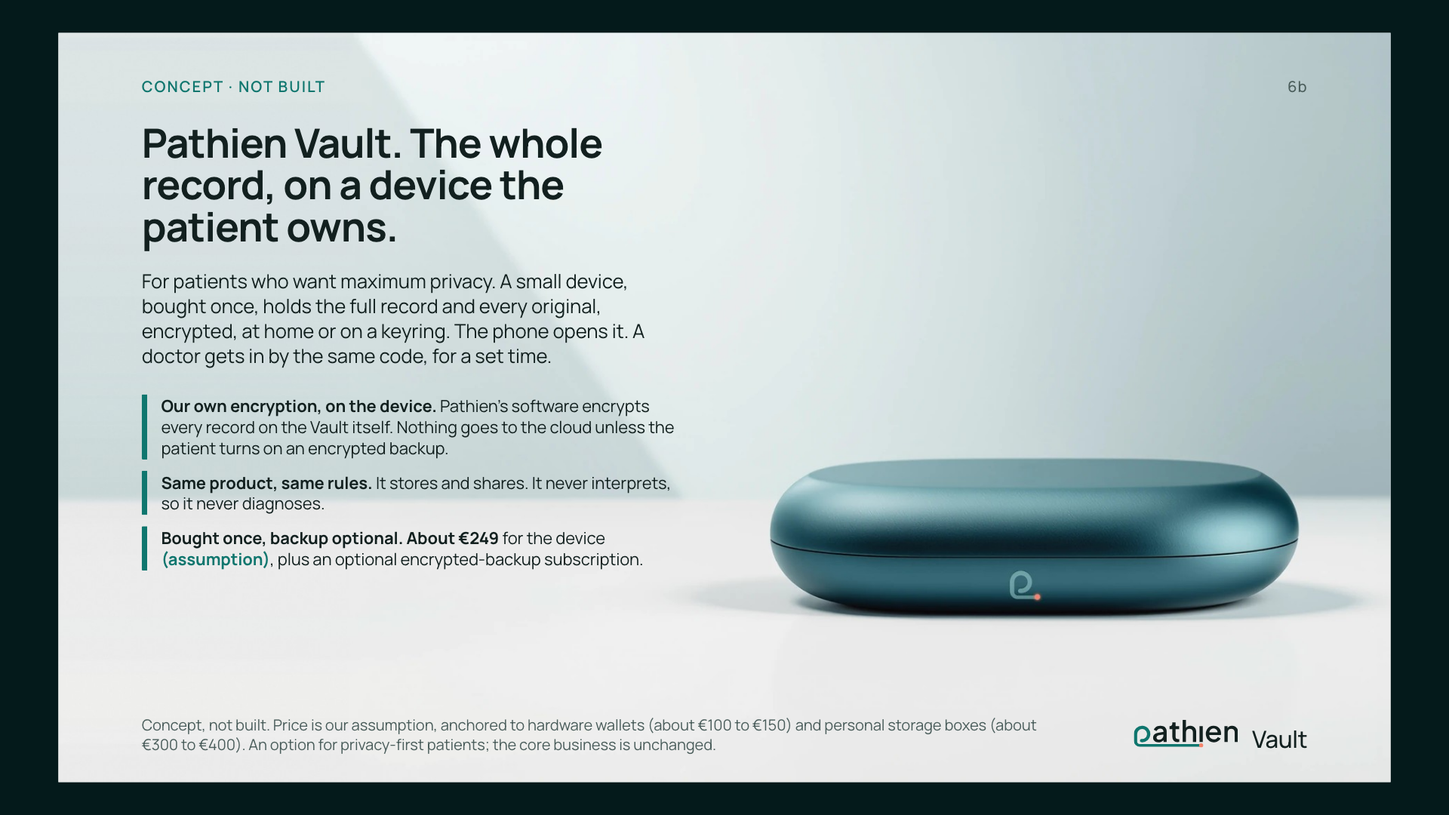
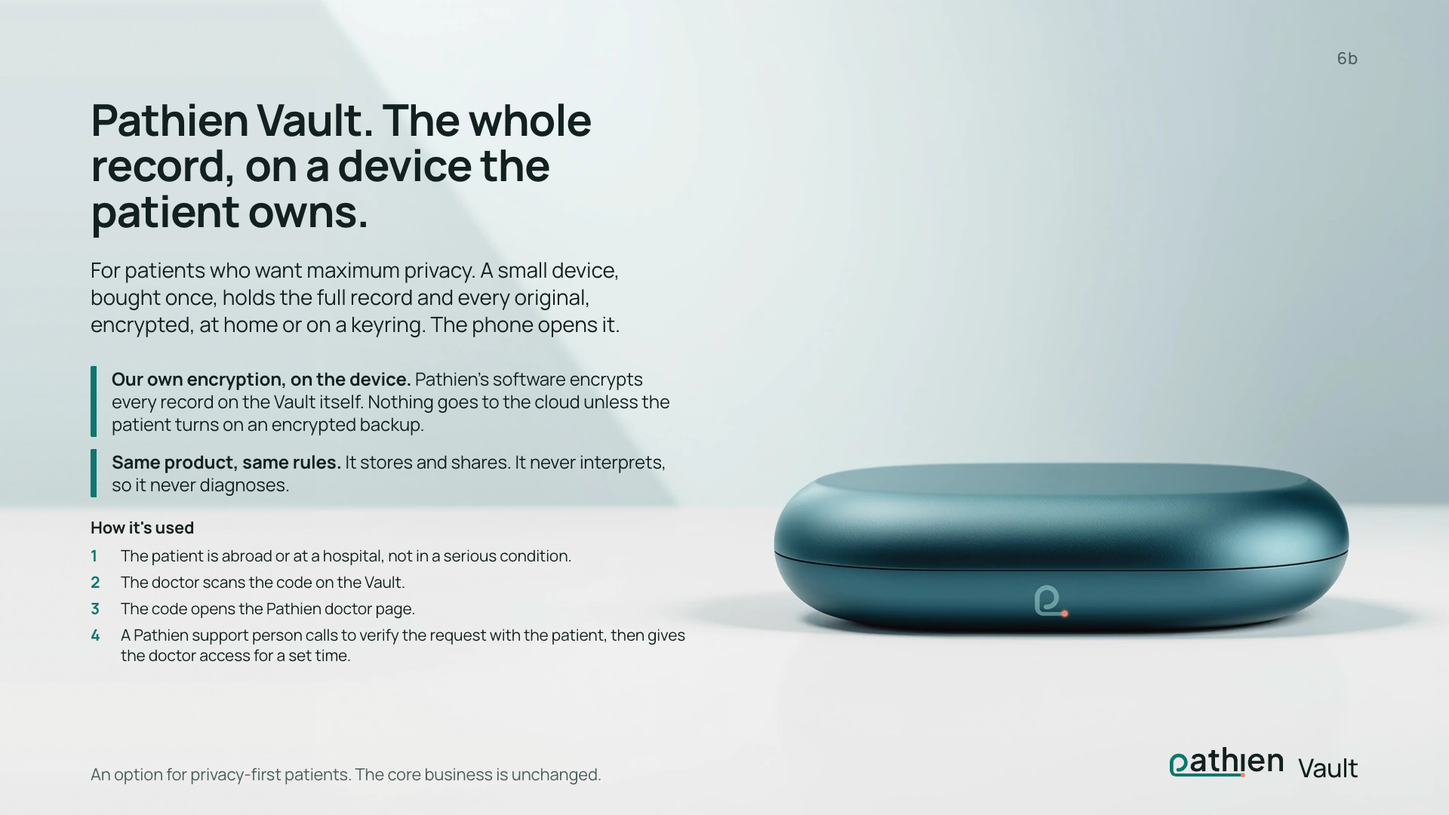
feat(deck): slide 6b drops concept label and price, adds How it's used steps
Hero template gains optional stepsTitle and steps. deck-content.md to v3.5.

Refs MIN-4503

Changed region(s): [[0.0, 0.0, 1.0, 1.0], [0.0938, 0.8861, 0.7188, 0.9167]]

diff --git a/landing/src/deck/slides.ts b/landing/src/deck/slides.ts
@@ -25,7 +25,7 @@ const N: Record<string, string[]> = {
     "We designed privacy in from the first line. The key lives on the patient's device. A doctor gets in only face to face, only with a yes, and only for a set time. Every access goes into a log the patient can read and nobody can edit; the log holds fingerprints, never health data. Those are product rules, not settings."
   ],
   "6b": [
-    "Some people will not want their record on anyone's server, ours included. For them we are designing Pathien Vault: a small device they buy once, holding the whole record at home. The doctor still gets in by the code, for a set time. Pathien's own encryption runs on the device, so nothing sits in the cloud. It is a concept, not built yet, and an option, not the business."
+    "Pathien Vault keeps the whole record on a device the patient owns, under our own encryption, not in the cloud. Here is how it's used. The patient is abroad, or at a hospital, and not in a serious condition. The doctor scans the code on the Vault, and it opens our doctor page. One of our support team calls to verify the request with the patient, then gives the doctor access for a set time."
   ],
   "7": [
     "The founder's question was simple: somewhere in the world, someone has Maria's pattern. If she says yes, her doctor can see that similar unnamed cases exist and ask to talk to the doctor treating one of them. Not to sell data. To shorten the years patients spend going from doctor to doctor. Opt-in only, and she can withdraw at any time."
@@ -180,17 +180,23 @@ export const slides: Slide[] = [
     side: { kind: 'phone', caption: "Key on the patient's phone", tag: 'Mock-up' },
   },
   {
-    id: '6b', counter: '6b', template: 'hero', theme: 'air', kicker: 'Concept · not built', notes: N['6b'],
+    id: '6b', counter: '6b', template: 'hero', theme: 'air', notes: N['6b'],
     headline: 'Pathien Vault. The whole record, on a device the patient owns.',
-    body: 'For patients who want maximum privacy. A small device, bought once, holds the full record and every original, encrypted, at home or on a keyring. The phone opens it. A doctor gets in by the same code, for a set time.',
+    body: 'For patients who want maximum privacy. A small device, bought once, holds the full record and every original, encrypted, at home or on a keyring. The phone opens it.',
     points: [
       '**Our own encryption, on the device.** Pathien\'s software encrypts every record on the Vault itself. Nothing goes to the cloud unless the patient turns on an encrypted backup.',
       '**Same product, same rules.** It stores and shares. It never interprets, so it never diagnoses.',
-      '**Bought once, backup optional.** **About €249** for the device [[(assumption)]], plus an optional encrypted-backup subscription.',
+    ],
+    stepsTitle: "How it's used",
+    steps: [
+      'The patient is abroad or at a hospital, not in a serious condition.',
+      'The doctor scans the code on the Vault.',
+      'The code opens the Pathien doctor page.',
+      'A Pathien support person calls to verify the request with the patient, then gives the doctor access for a set time.',
     ],
     image: { src: '/deck/vault-hero.jpg', alt: 'A slim teal-night aluminium device, a rounded pebble with a tone-on-tone Pathien mark and one small coral light, on a pale surface' },
     lockupSuffix: 'Vault',
-    footer: 'Concept, not built. Price is our assumption, anchored to hardware wallets (about €100 to €150) and personal storage boxes (about €300 to €400). An option for privacy-first patients; the core business is unchanged.',
+    footer: 'An option for privacy-first patients. The core business is unchanged.',
   },
   {
     id: '7', template: 'statement', theme: 'air', no: '07', kicker: 'Possible matches', notes: N['7'],

diff --git a/landing/src/deck/deck.css b/landing/src/deck/deck.css
@@ -317,6 +317,11 @@ strong{font-weight:700}
 .hero-points{list-style:none;margin:38px 0 0;padding:0}
 .hero-points li{border-left:8px solid var(--teal);padding:2px 0 2px 20px;margin-bottom:16px;font-size:24px;line-height:30px;color:var(--ink);border-radius:2px}
 .hero-points strong{color:var(--ink);font-weight:700}
+.hero-steps{margin-top:26px}
+.hero-steps h3{margin:0 0 10px;font-size:22px;line-height:28px;font-weight:700;color:var(--ink)}
+.hero-steps ol{list-style:none;margin:0;padding:0;counter-reset:st}
+.hero-steps li{counter-increment:st;position:relative;padding-left:40px;margin-bottom:8px;font-size:21px;line-height:27px;color:var(--ink)}
+.hero-steps li::before{content:counter(st);position:absolute;left:0;top:0;font-weight:700;color:var(--teal)}
 .hero-flag{color:var(--teal);font-weight:700}
 .hero-tag{position:absolute;left:1303px;top:900px}
 .hero-lock{position:absolute;right:120px;bottom:42px;display:flex;align-items:baseline;gap:20px}

diff --git a/landing/src/deck/templates/Hero.tsx b/landing/src/deck/templates/Hero.tsx
@@ -15,6 +15,12 @@ export function Hero({ s }: { s: HeroSlide }) {
         <ul className="hero-points">
           {s.points.map((p, i) => <li key={i}>{withAccent(p)}</li>)}
         </ul>
+        {s.steps && (
+          <div className="hero-steps">
+            {s.stepsTitle && <h3>{s.stepsTitle}</h3>}
+            <ol>{s.steps.map((t, i) => <li key={i}>{typo(t)}</li>)}</ol>
+          </div>
+        )}
       </div>
       {s.tag && <span className="demo-tag hero-tag">{s.tag}</span>}
       <div className="hero-lock">

diff --git a/landing/src/deck/types.ts b/landing/src/deck/types.ts
@@ -36,6 +36,9 @@ export interface HeroSlide extends SlideBase {
   body: string;
   /** Text supports **bold** and [[accent]] (teal bold, e.g. "(assumption)"). */
   points: string[];
+  /** Optional "how it's used" list: a small heading and numbered steps (numbers in teal). */
+  stepsTitle?: string;
+  steps?: string[];
   image: { src: string; alt: string };
   /** Optional. Placed on the image, same size as the demo tags. Without it the slide must say concept or mock-up elsewhere (kicker, footer). */
   tag?: HeroTag;

diff --git a/docs/deck/deck-content.md b/docs/deck/deck-content.md
@@ -3,11 +3,11 @@
 | | |
 |---|---|
 | **Owner** | Anna Lytica (Marketing), MIN-4429. Deck story: CEO (MIN-4425). Design: Pix (MIN-4428), next. |
-| **Version** | **v3.4, 14 Nov 2026** (MIN-4462: every insurer mention removed from slides 6, 6b, 10, 11, 13 and both scripts; founder: "remove the never insurers -> not sure about this", then "Drop every insurer mention"; the internal data rule is unchanged). v3.3, 14 Nov 2026 (MIN-4503: slide 6b, the "Concept render" tag removed and the encryption point added; founder: "remove the concept render -> and mention that this device has our own encrypted software for the data so they are not in the cloud"; the eyebrow "Concept · not built" stays). v3.2, 14 Nov 2026 (MIN-4503: new slide 6b, Pathien Vault, a concept device for patients who want maximum privacy; founder: "what if someone that want's his privacy can buy our device that can hold his data. Anna and pix work on this and add one slide with a very super elegant image with our device that looks very premioum"; no other slide renumbered). v3.1, 14 Nov 2026 (MIN-4503: team and ask from the CEO plan v2, `docs/business/team-and-funding-plan.md` §7; slide 14 replaced, slide 15 new; founder: "put it in the deck when ready"). v3, 14 Nov 2026 (MIN-4503: name Pathien; new slide 11, revenue years 1 to 3, on the founder's ask "the numbers of how many money we can earn" and "Yes, update to v3"; Appendix A's SOM retired for the bottom-up line; demo slides say what is real and what is synthetic). v2, 14 Nov 2026 (MIN-4503: reframed on the founder's two points, "Dr Google" and better doctor decisions; numbers from `pitch-numbers-2026-11-14.md` and `treg-findings-2026-11-14.md`). v1, 13 Nov 2026. |
+| **Version** | **v3.5, 15 Nov 2026** (MIN-4503: slide 6b, the concept label and all pricing removed, and a four-step "How it's used" flow added; founder, verbatim: "6b -> concept ,not build -> remove / Pricing -> No / But add how to use / Patient abroad or at a hospital with no serious condition -> Doctor scans the code on the machine -> opens the doctor page -> one of our support team calls to verify the condition and give the doctor access"; rule 8 (concept labels) is waived for 6b by the founder; S21 and S22 unused). v3.4, 14 Nov 2026 (MIN-4462: every insurer mention removed from slides 6, 6b, 10, 11, 13 and both scripts; founder: "remove the never insurers -> not sure about this", then "Drop every insurer mention"; the internal data rule is unchanged). v3.3, 14 Nov 2026 (MIN-4503: slide 6b, the "Concept render" tag removed and the encryption point added; founder: "remove the concept render -> and mention that this device has our own encrypted software for the data so they are not in the cloud"; the eyebrow "Concept · not built" stays). v3.2, 14 Nov 2026 (MIN-4503: new slide 6b, Pathien Vault, a concept device for patients who want maximum privacy; founder: "what if someone that want's his privacy can buy our device that can hold his data. Anna and pix work on this and add one slide with a very super elegant image with our device that looks very premioum"; no other slide renumbered). v3.1, 14 Nov 2026 (MIN-4503: team and ask from the CEO plan v2, `docs/business/team-and-funding-plan.md` §7; slide 14 replaced, slide 15 new; founder: "put it in the deck when ready"). v3, 14 Nov 2026 (MIN-4503: name Pathien; new slide 11, revenue years 1 to 3, on the founder's ask "the numbers of how many money we can earn" and "Yes, update to v3"; Appendix A's SOM retired for the bottom-up line; demo slides say what is real and what is synthetic). v2, 14 Nov 2026 (MIN-4503: reframed on the founder's two points, "Dr Google" and better doctor decisions; numbers from `pitch-numbers-2026-11-14.md` and `treg-findings-2026-11-14.md`). v1, 13 Nov 2026. |
 | **Event** | Gen AI Summit Hackathon, Athens LifeTech Park, Biotech & AI track |
 | **Market** | Global. Founder: "Dont focus on the greek market. we need to focus on global market" |
-| **Sources** | Only `docs/research/` (Sales). Each number carries a source ID from the table at the end (S1 to S22; S21 and S22, added in v3.2, are retail price anchors for slide 6b found by Marketing, not by Sales) and its status from the research: **verified**, **secondary**, or **assumption**. Nothing from the research's "Do not put on a slide" list is used. |
-| **Skills** | c-level-skills:board-deck-builder, marketing-strategy-pmm, copywriting, copy-editing, content-humanizer, competitor-alternatives (v1); marketing-strategy-pmm, copywriting, copy-editing, content-humanizer, brand-review (v2); marketing-strategy-pmm, copywriting, copy-editing, content-humanizer (v3); marketing-strategy-pmm, copywriting, copy-editing, brand-review (v3.1); marketing-strategy-pmm, copywriting, copy-editing, content-humanizer, brand-review (v3.2); marketing-strategy-pmm, copywriting, copy-editing, brand-review, content-humanizer (v3.4) |
+| **Sources** | Only `docs/research/` (Sales). Each number carries a source ID from the table at the end (S1 to S22; S21 and S22, added in v3.2 by Marketing as price anchors for slide 6b, are unused since v3.5, when the founder removed the price) and its status from the research: **verified**, **secondary**, or **assumption**. Nothing from the research's "Do not put on a slide" list is used. |
+| **Skills** | c-level-skills:board-deck-builder, marketing-strategy-pmm, copywriting, copy-editing, content-humanizer, competitor-alternatives (v1); marketing-strategy-pmm, copywriting, copy-editing, content-humanizer, brand-review (v2); marketing-strategy-pmm, copywriting, copy-editing, content-humanizer (v3); marketing-strategy-pmm, copywriting, copy-editing, brand-review (v3.1); marketing-strategy-pmm, copywriting, copy-editing, content-humanizer, brand-review (v3.2); marketing-strategy-pmm, copywriting, copy-editing, brand-review, content-humanizer (v3.4); marketing-strategy-pmm, copywriting, copy-editing, ux-copy, content-humanizer, brand-review (v3.5) |
 
 **Rules this deck keeps (check them again after any edit):**
 
@@ -18,13 +18,13 @@
 5. Pilot names are **targets. Nobody has been contacted.** The slide says so.
 6. The product is **Pathien** (founder, 14 Nov 2026). Trademark clearance is pending, so no ™ or ® on any slide (section "Name").
 7. **Revenue is never framed as earning from diagnoses.** Hospitals and clinics pay per case or per seat for the complete, cited history, which leads to better first decisions and fewer repeated tests. Words to avoid on slide 11 and in the scripts: "diagnosis revenue", "paid per diagnosis", "we earn from better diagnoses".
-8. **Demo honesty.** Every product or demo screen says whether it is the working pipeline on synthetic data, or a mock-up.
+8. **Demo honesty.** Every product or demo screen says whether it is the working pipeline on synthetic data, or a mock-up. **Waived for slide 6b by the founder** (15 Nov 2026, v3.5: "6b -> concept ,not build -> remove"); the speaker answers honestly if asked (slide 6b, "For questions").
 
 **Story (v2, founder 14 Nov):** "help people get rid of their 'google is my doctor' habit" and "save the industry lots of money by helping doctors make the best decisions". Digitising paper is the means, never the headline. The national file (Greece's MyHealth) is a neighbour, not a rival: we carry what it does not hold.
 
 **Brand note for Pix (v3):** The product is **Pathien**. Logo: the "p" is the symbol; its foot becomes a path that runs under the whole word and ends in one coral dot, where the dotless "i"'s dot would be. The path leads to the patient. Use `docs/brand/logo/pathien-lockup.svg` on light slides and `pathien-lockup-white.svg` on teal-night; never retype the wordmark (it is outlined Plus Jakarta Sans; slide type is Manrope). Colours and tokens: `docs/brand/brand-guidelines.md` and `docs/brand/tokens.css`. Coral is fill only. No red anywhere, including the revenue slide. No ™ or ® until the trademark check clears.
 
-**Arc (16 slides + 1 backup):** story → problem → why now → product → live demo → privacy → **the Vault, a concept for maximum privacy (slide 6b, new in v3.2)** → possible matches → impact → competition → who pays → **what we can earn (new in v3)** → go-to-market → **regulatory path (the closing content slide, founder: "We need to add it at a pitching deck as something at the end")** → **team today and what I ask** → **why: four people and a research partner (new in v3.1)**. Backup: Appendix A, market sizing.
+**Arc (16 slides + 1 backup):** story → problem → why now → product → live demo → privacy → **the Vault, for maximum privacy (slide 6b, new in v3.2)** → possible matches → impact → competition → who pays → **what we can earn (new in v3)** → go-to-market → **regulatory path (the closing content slide, founder: "We need to add it at a pitching deck as something at the end")** → **team today and what I ask** → **why: four people and a research partner (new in v3.1)**. Backup: Appendix A, market sizing.
 
 ---
 
@@ -150,33 +150,49 @@ Footer: Synthetic patient. Synthetic exams. No real health data.
 
 ---
 
-## Slide 6b: Pathien Vault (concept, new in v3.2)
+## Slide 6b: Pathien Vault (new in v3.2)
 
 The founder asked for it (14 Nov 2026, verbatim): *"what if someone that want's his privacy can buy our device that can hold his data. Anna and pix work on this and add one slide with a very super elegant image with our device that looks very premioum"*. It sits right after slide 6 because it is the furthest point of the same promise: the patient holds the key, and here the patient holds the record too.
 
-**Label (eyebrow, same size as the headline eyebrow on every slide):** Concept · not built
+v3.5 (founder, 15 Nov 2026, verbatim): *"6b -> concept ,not build -> remove / Pricing -> No / But add how to use / Patient abroad or at a hospital with no serious condition -> Doctor scans the code on the machine -> opens the doctor page -> one of our support team calls to verify the condition and give the doctor access"*.
+
+**Label (eyebrow):** none (removed in v3.5; rule 8 waived for this slide by the founder).
 
 **Headline:** Pathien Vault. The whole record, on a device the patient owns.
 
-**Body (39 words):** For patients who want maximum privacy. A small device, bought once, holds the full record and every original, encrypted, at home or on a keyring. The phone opens it. A doctor gets in by the same code, for a set time.
+**Body (29 words):** For patients who want maximum privacy. A small device, bought once, holds the full record and every original, encrypted, at home or on a keyring. The phone opens it.
 
-**Three points:**
+**Two points:**
 - **Our own encryption, on the device.** Pathien's software encrypts every record on the Vault itself. Nothing goes to the cloud unless the patient turns on an encrypted backup.
 - **Same product, same rules.** It stores and shares. It never interprets, so it never diagnoses.
-- **Bought once, backup optional.** About €249 for the device *(assumption)*, plus an optional encrypted-backup subscription.
 
-**Footer, required:** Concept, not built. Price is our assumption, anchored to hardware wallets (about €100 to €150) and personal storage boxes (about €300 to €400). An option for privacy-first patients; the core business is unchanged.
+**How it's used (four steps, numbered, one line each):**
+1. The patient is abroad or at a hospital, not in a serious condition.
+2. The doctor scans the code on the Vault.
+3. The code opens the Pathien doctor page.
+4. A Pathien support person calls to verify the request with the patient, then gives the doctor access for a set time.
+
+**Footer:** An option for privacy-first patients. The core business is unchanged.
 
 **Visual note for Pix:** One object, alone, as a premium product shot. The exact form is yours; this note is about mood and composition only.
 - **Mood:** quiet, expensive, calm. Think of the way a good watch or a pair of earbuds is shot, not a gadget ad. Nothing medical, nothing "cyber".
-- **Composition:** the device slightly off-centre on a single natural surface (stone, linen or warm wood), soft daylight from one side, one long gentle shadow, plenty of empty space. Headline and points on the empty side.
+- **Composition:** the device slightly off-centre on a single natural surface (stone, linen or warm wood), soft daylight from one side, one long gentle shadow, plenty of empty space. Headline, points and the four steps on the empty side.
+- **The four steps (v3.5):** a quiet numbered row or column, small numerals in teal, one line each, no icons, no arrows heavier than a hairline. They replace the price point, so the slide carries no more text than in v3.4. If space is tight, drop the second point ("Same product, same rules") before shrinking the steps; the speaker says it.
+- **The code on the device:** the Vault carries a small code (printed or on a tiny display) that the doctor scans. Show it on the hero only if it stays subtle.
 - **Colour:** teal-night background or the brand's warm light neutral (`docs/brand/tokens.css`). Coral appears once, if at all, as a small detail that echoes the dot at the end of the logo's path (a status light, a pull tab), never as a large fill.
-- **Optional second, smaller frame:** the same device on a keyring next to a phone, to show the size. Only if it does not crowd the hero.
-- **Never:** padlocks, shields, circuit boards, glowing blue data streams, floating holograms, hands in gloves, real people's faces, any medical cross. No ™ or ®.
-- **Honesty (rule 8):** no "Concept render" tag on the image (founder, v3.3). The eyebrow "Concept · not built" and the footer carry the label.
+- **Optional second, smaller frame:** the same device on a keyring next to a phone, to show the size. Only if it does not crowd the hero and the steps.
+- **Never:** padlocks, shields, circuit boards, glowing blue data streams, floating holograms, hands in gloves, real people's faces, any medical cross, any price. No ™ or ®.
+- **No concept label (v3.5):** no "Concept render" tag on the image (founder, v3.3), no "Concept · not built" eyebrow and no "Concept, not built" in the footer (founder, v3.5).
 - The Pathien lockup top-left as on every slide; "Vault" is set in Manrope next to it, never drawn into the wordmark.
 
-**Speaker notes (~20 s):** "Some people will not want their record on anyone's server, ours included. For them we are designing Pathien Vault: a small device they buy once, holding the whole record at home. The doctor still gets in by the code, for a set time. Pathien's own encryption runs on the device, so nothing sits in the cloud. It is a concept, not built yet, and an option, not the business."
+**Speaker notes (~20 s, about 60 words):** "Pathien Vault keeps the whole record on a device the patient owns, under our own encryption, not in the cloud. Here is how it's used. The patient is abroad, or at a hospital, and not in a serious condition. The doctor scans the code on the Vault, and it opens our doctor page. One of our support team calls to verify the request with the patient, then gives the doctor access for a set time."
+
+**For questions (not on the slide): the support call.**
+1. **The patient can't take the call.** Access falls back to a contact the patient named at setup. If that contact can't be reached either, there is no access. The Vault never opens by default.
+2. **Someone tries to talk their way in.** The support person checks identity before anything: the patient's own answers set at setup, the doctor's and the hospital's details, and the request from the doctor page must match the call. Every call and every grant is written to the patient's signed log (slide 6), so the patient sees who asked, who approved and for how long.
+3. **The support person never reads the record.** They approve or refuse a time-limited grant. The record stays encrypted on the Vault, and access ends by itself when the time runs out.
+4. **A serious condition or an emergency.** The flow is for a patient who can take part. Emergencies follow the hospital's own procedures; the Vault is not an emergency service.
+5. **Is it built?** No. It is designed, on the same rules as the working app. Say so plainly if asked (rule 8 is waived for the slide, not for the answer).
 
 **Behind the slide (for questions, not on the slide): the trade-offs.**
 1. **Losing the device.** Without a backup, a lost or broken Vault means a lost record. Answer: a recovery key printed at setup, and the optional encrypted backup. Both add steps that privacy-first buyers may skip.
@@ -184,14 +200,13 @@ The founder asked for it (14 Nov 2026, verbatim): *"what if someone that want's 
 3. **The doctor's access when the Vault is at home.** If the patient is at the clinic and the Vault is at home, the doctor's session needs either an encrypted copy on the phone or a connection to the Vault, which makes the Vault a small server the patient runs, with updates and security to keep. Offline, a doctor sees only what the phone carries.
 4. **The doctor's questions need computing.** Cited answers ("Has her CRP been raised before?") run a language model. Either it runs on the device (slower, smaller), or the data passes through our servers for the session and is never stored. The slide says "store", not "process", for this reason. Backend and the CTO decide (Q33).
 5. **Possible matches (slide 7).** A Vault user joins the network only by sending an unnamed pattern, opt-in, as today. Without it, matches are off.
-6. **Cost.** Hardware means a bill of materials, stock, shipping, returns, repairs and support. It ties up cash a software company does not. At €249 the margin is unknown until a manufacturer quotes.
+6. **Cost.** Hardware means a bill of materials, stock, shipping, returns, repairs and support, and the support call in "How it's used" means a staffed desk across time zones (Q36). It ties up cash a software company does not. No price is set (founder, v3.5: "Pricing -> No").
 7. **Certification.** A radio device sold in the EU needs CE marking under the Radio Equipment Directive (with EMC, electrical safety, RoHS and WEEE rules). It is not a medical device under the MDR as long as it only stores and shares; if it ever interpreted data it would become one, so it must not. GDPR still applies to any backup and to the app.
 8. **Firmware and supply chain.** A device that holds health records must get signed updates for years, and its chips and factory must be trusted. A security flaw found after sale needs a recall plan.
 9. **Name.** "Pathien Vault" is a descriptive name under Pathien, whose trademark clearance is still pending (Q32). No ™.
+10. **How a support person can grant access without a key (Q35).** Slide 6 says nobody reads the record without the patient, including us. The grant the support person gives has to be the patient's own consent, carried through our desk, not a key we hold. Backend and the CTO decide the mechanism.
 
-**Price, as an assumption.** About **€249 once** for the device, plus an optional encrypted-backup subscription at a price we have not set. Anchors (secondary, retail listings, Nov 2026): a hardware wallet that holds only keys sells for about $99 to $149 (Ledger Nano X); a two-bay personal storage box sells for about €300 to €415 without disks (Synology DS224+). The Vault holds more than a key and less than a home server, so it sits between them. No revenue line: this is an option for a privacy-first segment, not part of slide 11.
-
-**Sources:** S21 (Ledger Nano X retail prices, secondary); S22 (Synology DS224+ retail prices, secondary). Founder's words above. Rules 1, 3 and 8 kept: no diagnosis, nothing on a chain, the concept labelled.
+**Sources:** Founder's words above. S21 and S22 unused since v3.5 (price removed). Rules 1 and 3 kept: no diagnosis, nothing on a chain. Rule 8 waived for this slide by the founder (v3.5).
 
 ---
 
@@ -517,7 +532,7 @@ The v2 name proposals (Anamna, Strand, Histra) are retired; their reasoning stay
 
 ---
 
-## Open questions from Marketing (in PRD section 17 as Q23 to Q27; Q28 there covers the recap post; Q31 and Q32 new in v3; Q33 and Q34 new in v3.2)
+## Open questions from Marketing (in PRD section 17 as Q23 to Q27; Q28 there covers the recap post; Q31 and Q32 new in v3; Q33 and Q34 new in v3.2; Q35 and Q36 new in v3.5)
 
 | # | Question | Owner |
 |---|---|---|
@@ -531,7 +546,9 @@ The v2 name proposals (Anamna, Strand, Histra) are retired; their reasoning stay
 | Q31 | Slide 11's prices (€40 to €80 a case, €50 a seat a month) and volumes are assumptions. Ask the first buyers for their own figure (treg Q6, question 5) and replace them. | Sales, Founder at LifeTech Park |
 | Q32 | Trademark clearance for Pathien before any printed or public use beyond the hackathon; the Hmar meaning before any India launch. | Founder, attorney |
 | Q33 | Pathien Vault (slide 6b): where the doctor's cited questions run when the record lives on the Vault (on the device, or passed through our servers for the session and never stored), and how a doctor reaches a Vault left at home. The slide says "store", not "process", until this is decided. | Backend, CTO |
-| Q34 | Pathien Vault price: €249 is an assumption between a hardware wallet and a personal storage box. Founder approves it, and whether the slide is shown at all, before the pitch. | Founder |
+| Q34 | **Answered in v3.5** (founder, 15 Nov: "Pricing -> No"). No price on slide 6b or in the scripts; the slide stays in the deck. | Founder |
+| Q35 | Pathien Vault (slide 6b, step 4): how a Pathien support person grants a doctor time-limited access to a record encrypted on the Vault without Pathien holding a key (for example, the call triggers the patient's own approval, or a grant the patient set up in advance). Slide 6 promises that nobody reads the record without the patient, including us. | Backend, CTO |
+| Q36 | Pathien Vault support desk: hours, languages and who staffs the verification call for patients abroad. | CEO, founder |
 
 ---
 
@@ -559,8 +576,8 @@ The v2 name proposals (Anamna, Strand, Histra) are retired; their reasoning stay
 | S18 | Tandem Health pricing page: Tandem Pro €125 per user a month (a rival page says €109). A scribe, so a ceiling for a seat price, not a like-for-like price | company page, via `market-and-competitors.md` §2 | https://tandemhealth.ai/pricing |
 | S19 | Turkey health tourists, 2024: about 1.5M and about $3B (official USHAS figures, via a city health-tourism page) | secondary | https://health.istanbul.com/medical-tourism-stats ; `market-and-competitors.md` §1.4 |
 | S20 | The working demo's own record: what is real and what is simulated; measured results (235 of 235 fields read on the synthetic set) | internal, measured on staging | `docs/submission/project-details.md` |
-| S21 | Ledger Nano X retail prices, a hardware wallet that holds keys only: about $99 to $149 (official-site figure via a Finder review; Best Buy list $99; a ryder.id review "what 149 dollars buys") | secondary (retail, prices vary by region and promotion) | https://www.finder.com.au/cryptocurrency/wallets/ledger-nano-x ; https://www.bestbuy.com/site/6550420.p ; https://ryder.id/blogs/post/ledger-nano-x-review-what-149-dollars-buys-and-what-it-asks-you-to-trust |
-| S22 | Synology DS224+ retail prices, a two-bay personal storage box without disks: about $300 at launch (2023), £299 UK, €309 to €415 in EU shops | secondary (retail, dated 2023 to 2026) | https://pricespy.co.uk/computers-accessories/storage-media/nas-servers/synology-ds224+--p11777573 ; https://aio.lv/en/product--synology-ds224--10598969.md ; https://www.storagereview.com/de/review/synology-ds224-review |
+| S21 | Ledger Nano X retail prices, a hardware wallet that holds keys only: about $99 to $149 (official-site figure via a Finder review; Best Buy list $99; a ryder.id review "what 149 dollars buys") | secondary (retail, prices vary by region and promotion); **unused since v3.5** (founder removed the price from slide 6b) | https://www.finder.com.au/cryptocurrency/wallets/ledger-nano-x ; https://www.bestbuy.com/site/6550420.p ; https://ryder.id/blogs/post/ledger-nano-x-review-what-149-dollars-buys-and-what-it-asks-you-to-trust |
+| S22 | Synology DS224+ retail prices, a two-bay personal storage box without disks: about $300 at launch (2023), £299 UK, €309 to €415 in EU shops | secondary (retail, dated 2023 to 2026); **unused since v3.5** (founder removed the price from slide 6b) | https://pricespy.co.uk/computers-accessories/storage-media/nas-servers/synology-ds224+--p11777573 ; https://aio.lv/en/product--synology-ds224--10598969.md ; https://www.storagereview.com/de/review/synology-ds224-review |
 
 **Not used in v2 (pitch-numbers §5):** a count of wrong diagnoses per year for Greece or the EU (none in a primary); a euro figure for duplicate tests in Greece or the EU (none); the OECD 2017 "one fifth wasteful" line (commentary only); the Dutch 56% repeat-test figure (primary not opened); MyHealth's "1.5 million users" (vendor claim).
 

diff --git a/landing/src/deck/README.md b/landing/src/deck/README.md
@@ -4,7 +4,7 @@ A web presentation built from reusable slide templates. The words live in one da
 
 - `slides.ts`: the whole deck as typed data. One object per slide. Words come from `docs/deck/deck-content.md`; speaker notes too.
 - `types.ts`: the props every template takes (a `Slide` is a union keyed by `template`).
-- `templates/`: layouts. `Cover`, `Hero` (full-bleed image + text column + optional `tag` of `'Concept render'` or `'Mock-up'`; used by slide 6b), `Stats`, `Statement` (points + side panel), `Funnel` (big number), `Chart` (stacked bars from data), `Table`, `Product` (phone frames), `Compare` (positioning map), `Steps` (timeline or ascending cards), `TeamAsk`, `Appendix`.
+- `templates/`: layouts. `Cover`, `Hero` (full-bleed image + text column + optional `tag` of `'Concept render'` or `'Mock-up'`, optional `stepsTitle` + `steps` (a small numbered "how it's used" list, numbers in teal); used by slide 6b), `Stats`, `Statement` (points + side panel), `Funnel` (big number), `Chart` (stacked bars from data), `Table`, `Product` (phone frames), `Compare` (positioning map), `Steps` (timeline or ascending cards), `TeamAsk`, `Appendix`.
 - `Deck.tsx`: the presenter (scaling, keys, hash, notes, print). `deck.css`: all styles, on a fixed 1920x1080 canvas.
 - Entry: `landing/deck/index.html` (`noindex`), built to `dist/deck/index.html`. The landing at `/` is a separate entry.
 
@@ -13,7 +13,7 @@ A web presentation built from reusable slide templates. The words live in one da
 1. Copy `slides.ts` to `slides.<name>.ts`, keep the `Slide[]` shape, and replace the data. Pick a `template` per slide; TypeScript tells you which fields it needs.
 2. Point `main.tsx` at the new file (or add `deck/<name>/index.html` and a second input in `vite.config.ts`).
 3. Rules baked into the types: every `product` card and every `statement` side panel of kind `notice`, `phone` or `matches` must carry a `tag` of `'Mock-up'` or `'Working demo · synthetic data'`. Do not add red, a trademark sign, or a funding-sources slide.
-4. A `hero` slide's `tag` is optional. If it has none, the slide must carry a concept or mock-up label elsewhere (kicker and footer). Never show a concept image without a label.
+4. A `hero` slide's `tag`, `kicker`, `stepsTitle` and `steps` are optional. Slide 6b carries no concept label (founder, 2026-11-15: it is no longer shown as a concept); a hero that does show an unbuilt thing should still say so with a `tag`.
 5. Keep every "assumption" or "our estimate" label at the same size as its number.
 
 ## Presenting
